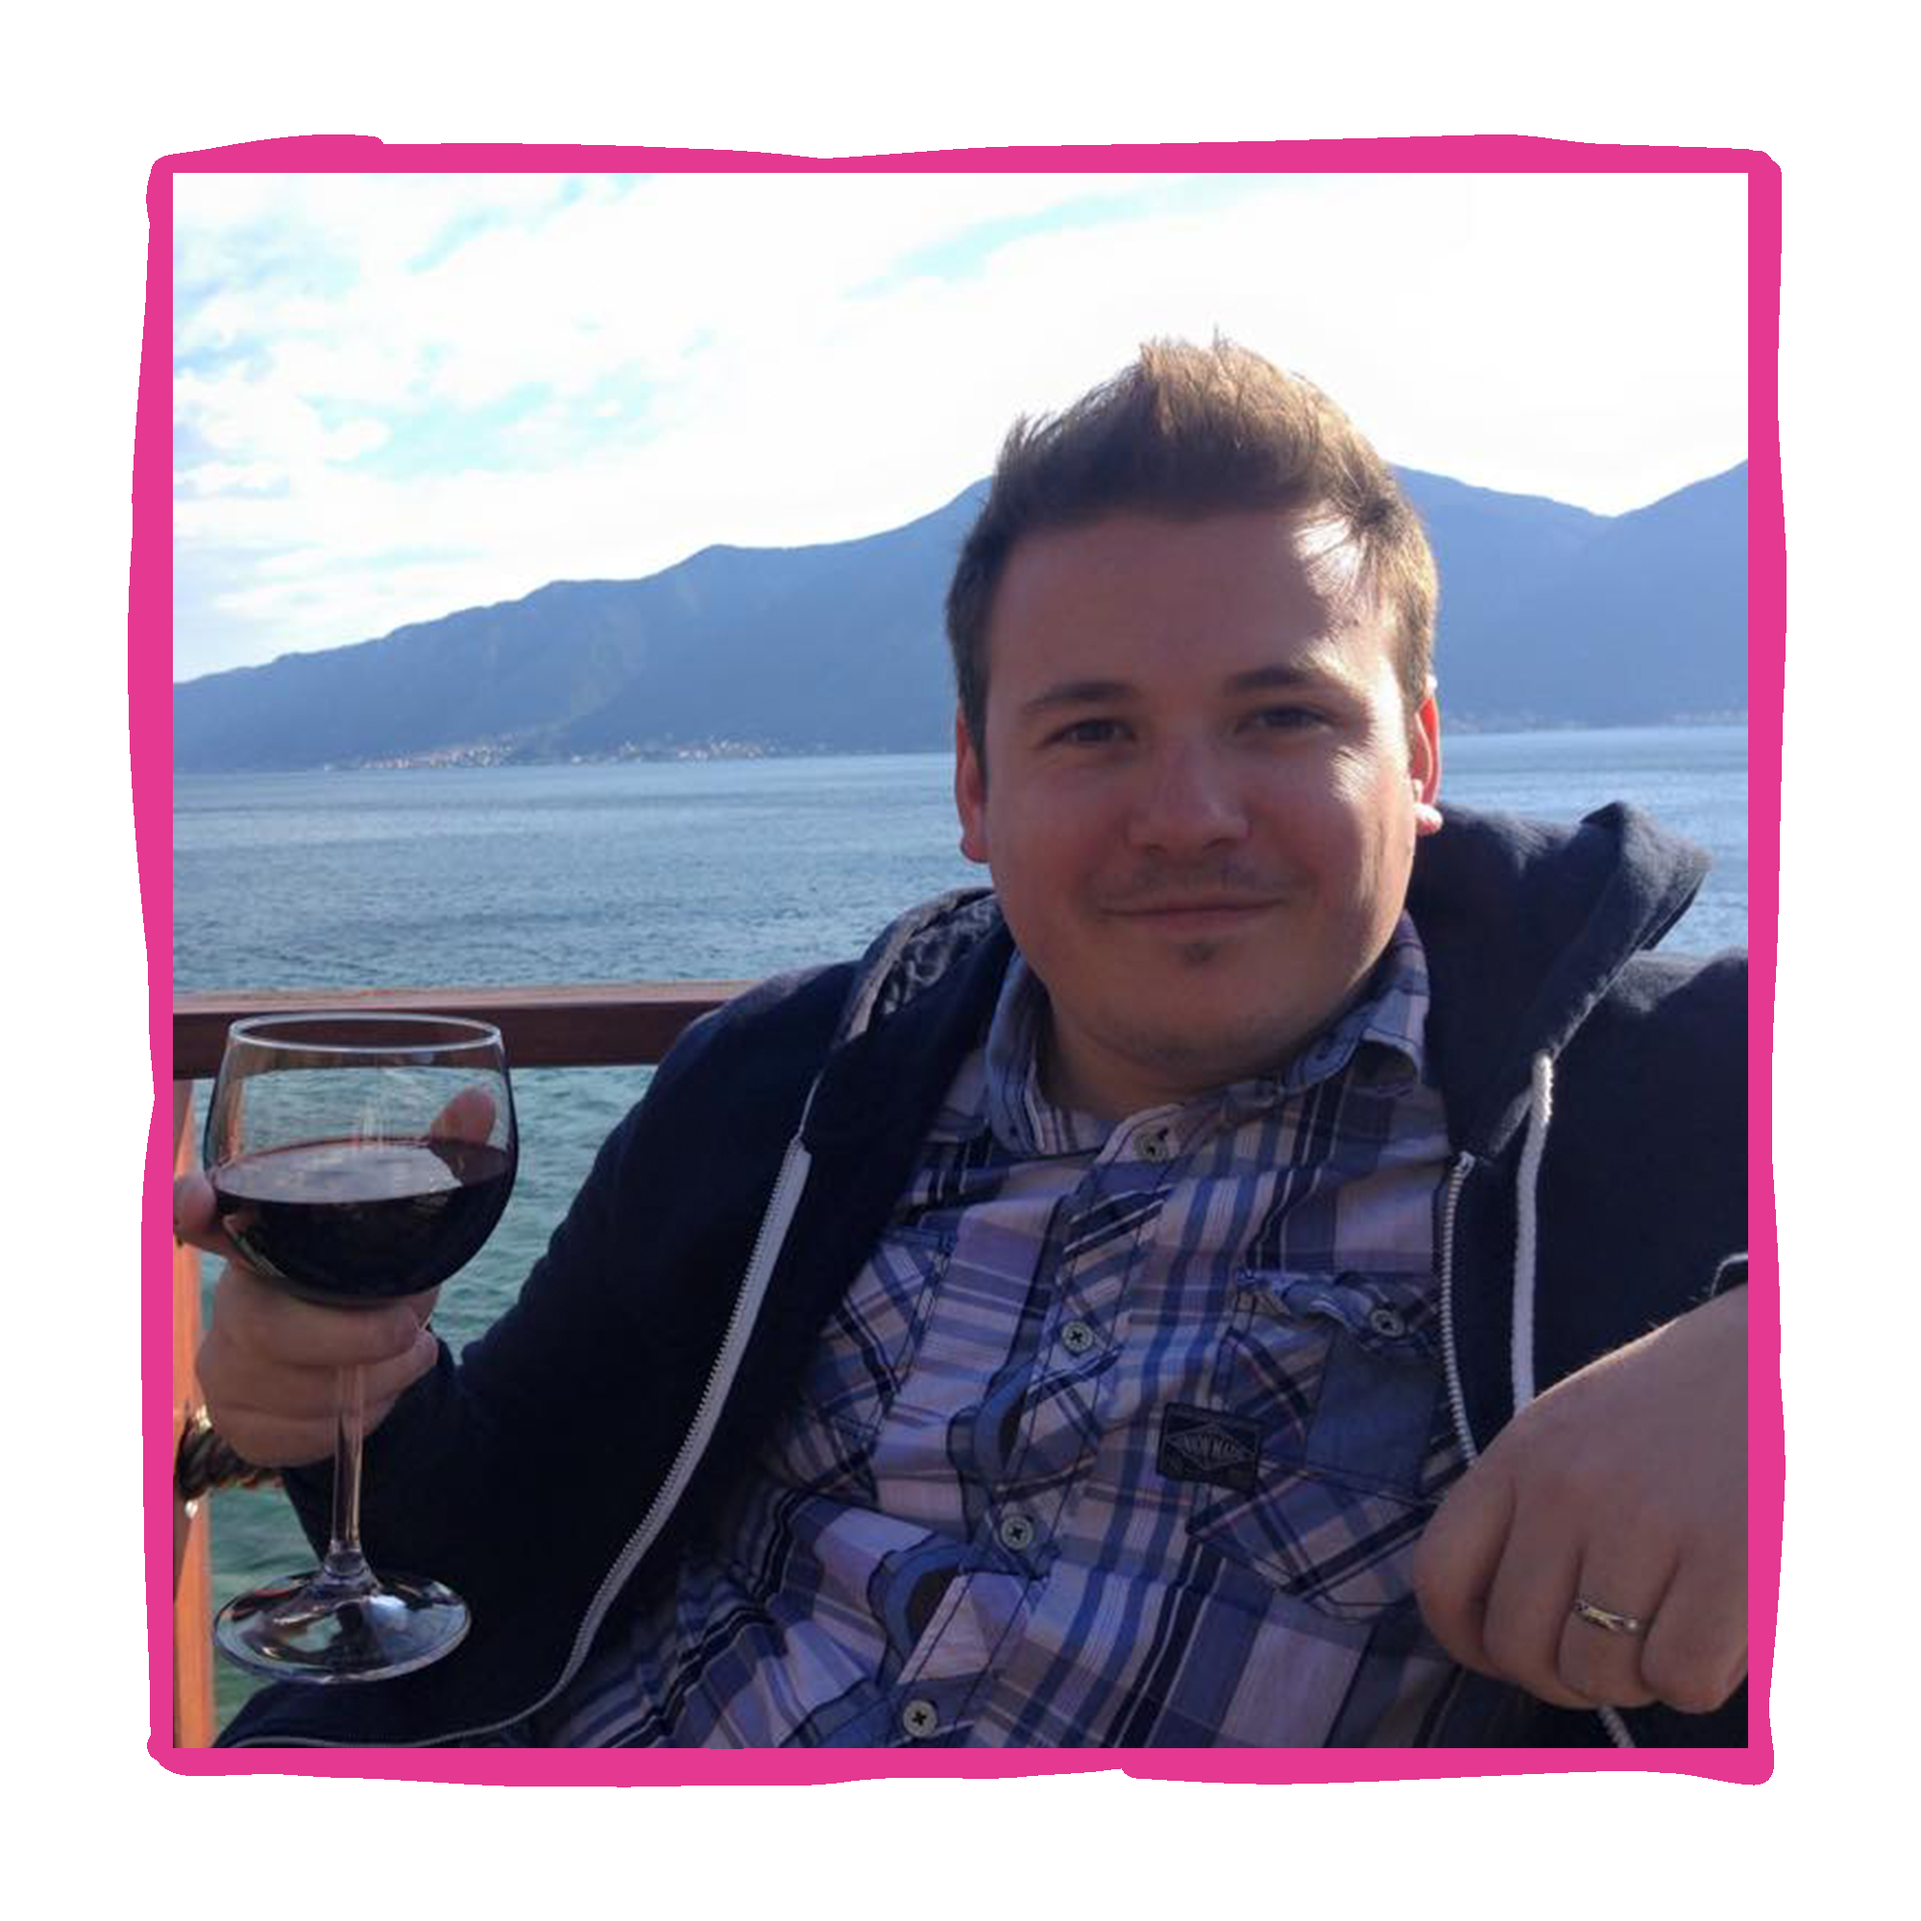
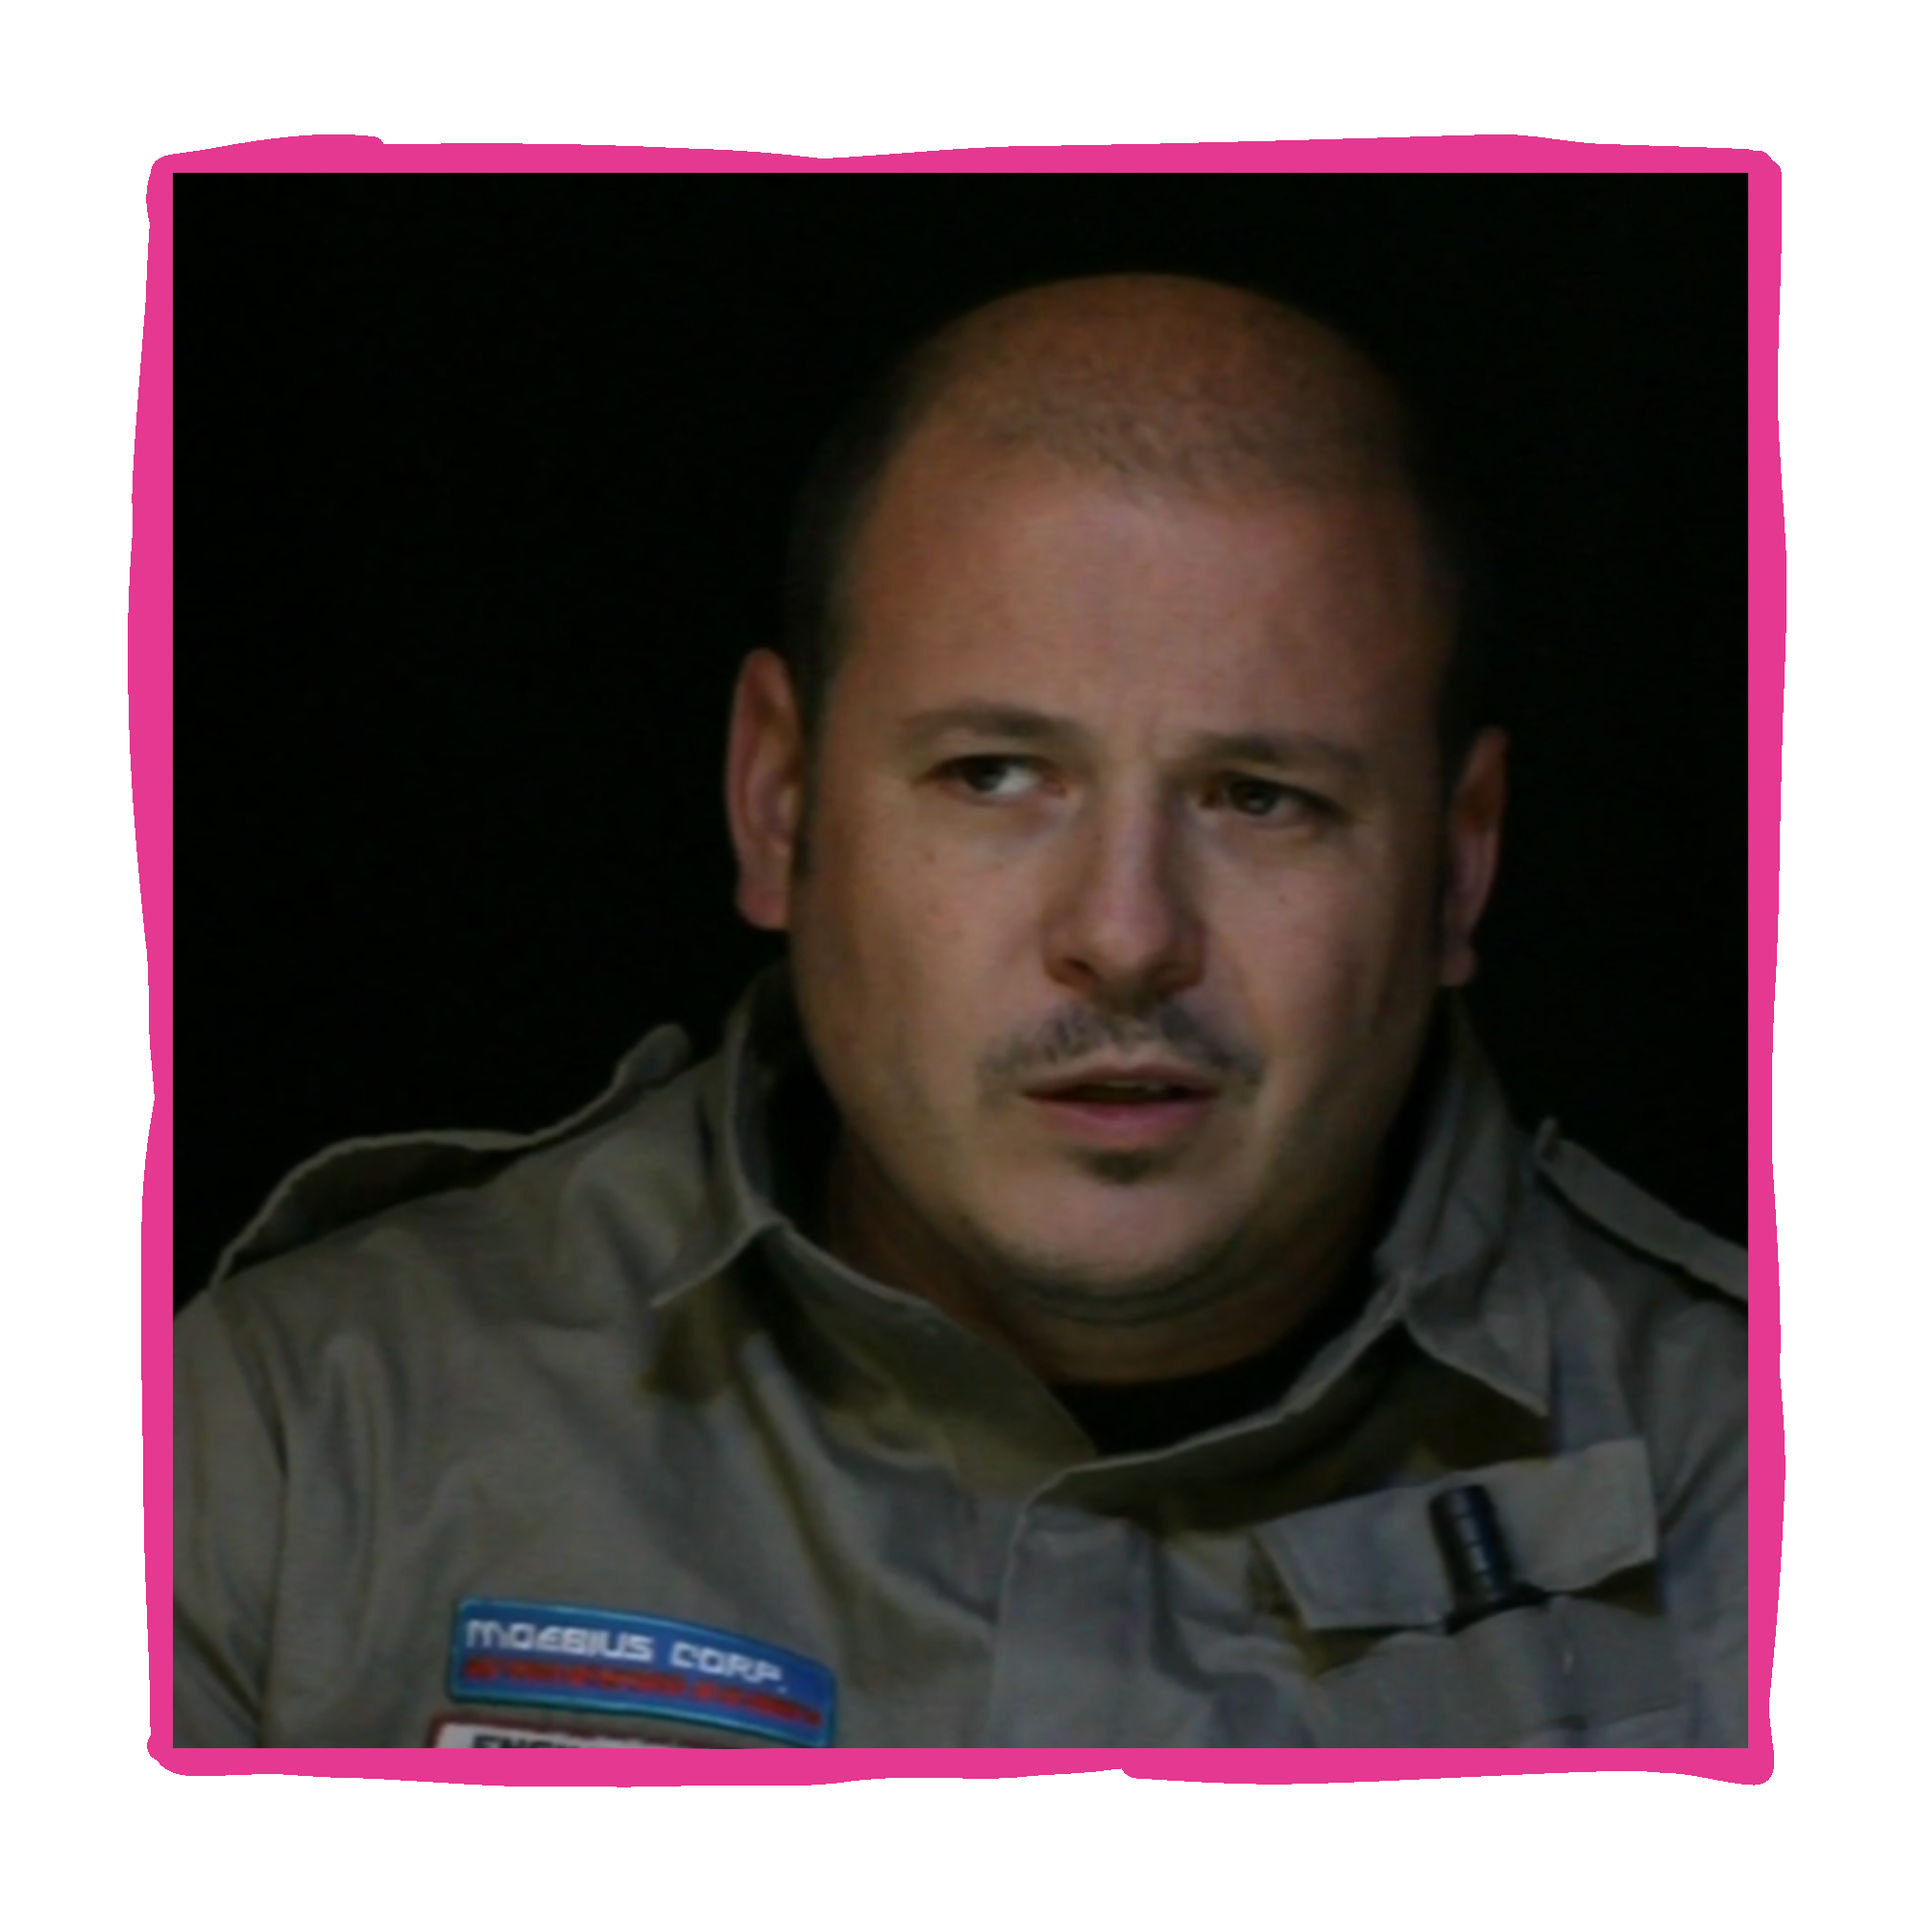
updated bio images

diff --git a/vaesen.html b/vaesen.html
@@ -61,7 +61,7 @@
         <p> A module from Melpomene Games, you can get this Vaesen mystery from <a href="https://www.drivethrurpg.com/en/product/402994/the-double-vaesen-mystery" target="_blank" rel="noopener noreferrer">DriveThruRPG</a></p>
         <div class="cast" aria-label="Doubles players">
           <div class="cast-member"><img class="cast-photo" src="images/bio_pink_sa.png" alt="Sam"><span>Sam</span></div>
-          <div class="cast-member"><div class="cast-avatar cast-placeholder" role="img" aria-label="Placeholder portrait for Katie">K</div><span>Katie</span></div>
+          <div class="cast-member"><img class="cast-photo" src="images/bio_pink_ka.png" alt="Katie"><span>Katie</span></div>
           <div class="cast-member"><div class="cast-avatar cast-placeholder" role="img" aria-label="Placeholder portrait for Rob">R</div><span>Rob</span></div>
           <div class="cast-member"><img class="cast-photo" src="images/bio_pink_se.png" alt="Simon"><span>Simon</span><span class="cast-role">Warden</span></div>
         </div>
@@ -78,7 +78,7 @@
         <p> You can pick up a copy of Seasons of Mystery from <a href="https://freeleaguepublishing.com/shop/vaesen-2/seasons-of-mystery/" target="_blank" rel="noopener noreferrer">Free League Publishing</a>.</p>
         <div class="cast" aria-label="Dance With Death players">
           <div class="cast-member"><img class="cast-photo" src="images/bio_pink_sa.png" alt="Sam"><span>Sam</span></div>
-          <div class="cast-member"><div class="cast-avatar cast-placeholder" role="img" aria-label="Placeholder portrait for Katie">K</div><span>Katie</span></div>
+          <div class="cast-member"><img class="cast-photo" src="images/bio_pink_ka.png" alt="Katie"><span>Katie</span></div>
           <div class="cast-member"><div class="cast-avatar cast-placeholder" role="img" aria-label="Placeholder portrait for Matt">M</div><span>Matt</span></div>
           <div class="cast-member"><img class="cast-photo" src="images/bio_pink_se.png" alt="Simon"><span>Simon</span><span class="cast-role">Warden</span></div>
         </div>
@@ -96,7 +96,7 @@
         <p> You can pick up a copy of Seasons of Mystery from <a href="https://freeleaguepublishing.com/shop/vaesen-2/seasons-of-mystery/" target="_blank" rel="noopener noreferrer">Free League Publishing</a>.</p>
         <div class="cast" aria-label="Fireheart players">
           <div class="cast-member"><img class="cast-photo" src="images/bio_pink_sa.png" alt="Sam"><span>Sam</span></div>
-          <div class="cast-member"><div class="cast-avatar cast-placeholder" role="img" aria-label="Placeholder portrait for Katie">K</div><span>Katie</span></div>
+          <div class="cast-member"><img class="cast-photo" src="images/bio_pink_ka.png" alt="Katie"><span>Katie</span></div>
           <div class="cast-member"><div class="cast-avatar cast-placeholder" role="img" aria-label="Placeholder portrait for Matt">R</div><span>Rosey</span></div>
           <div class="cast-member"><img class="cast-photo" src="images/bio_pink_se.png" alt="Simon"><span>Simon</span><span class="cast-role">Warden</span></div>
         </div>

diff --git a/mothership.html b/mothership.html
@@ -46,7 +46,7 @@
         </div>
         <div class="cast" aria-label="VR Dead players">
           <div class="cast-member"><img class="cast-photo" src="images/bio_pink_sa.png" alt="Sam"><span>Sam</span></div>
-          <div class="cast-member"><div class="cast-avatar cast-placeholder" role="img" aria-label="Placeholder portrait for Katie">K</div><span>Lewis</span></div>
+          <div class="cast-member"><img class="cast-photo" src="images/bio_pink_ka.png" alt="Katie"><span>Katie</span></div>
           <div class="cast-member"><div class="cast-avatar cast-placeholder" role="img" aria-label="Placeholder portrait for Matt">M</div><span>Joanna</span></div>
           <div class="cast-member"><img class="cast-photo" src="images/bio_pink_jk.png" alt="Matt"><span>Josh</span></div>
           <div class="cast-member"><img class="cast-photo" src="images/bio_pink_se.png" alt="Simon"><span>Simon</span><span class="cast-role">Warden</span></div>
@@ -63,9 +63,9 @@
         <p class="series-description">Hyperion is a three-part trilogy: <em>Arrival</em>, <em>Revival</em>, and <em>Awakening</em>. Written by theRolePlayGoblin team. Each story follows a different crew, at a different point in time, as they encounter the Moebius Corporation science vessel Hyperion. Every crew faces its own space-horror nightmare aboard the ship, but only by experiencing all three stories will the fearful truth be revealed - a revelation that could determine the survival of humanity.</p>
         <div class="cast" aria-label="Hyperion players">
           <div class="cast-member"><img class="cast-photo" src="images/bio_pink_sa.png" alt="Sam"><span>Sam</span><span class="cast-role">Warden</span></div>
-          <div class="cast-member"><div class="cast-avatar cast-placeholder" role="img" aria-label="Placeholder portrait for Katie">K</div><span>Lewis</span></div>
+          <div class="cast-member"><div class="cast-avatar cast-placeholder" role="img" aria-label="Placeholder portrait for Lewis">L</div><span>Lewis</span></div>
           <div class="cast-member"><div class="cast-avatar cast-placeholder" role="img" aria-label="Placeholder portrait for Rosey">R</div><span>Rosey</span></div>
-          <div class="cast-member"><div class="cast-avatar cast-placeholder" role="img" aria-label="Placeholder portrait for Matt">M</div><span>Joanna</span></div>
+          <div class="cast-member"><div class="cast-avatar cast-placeholder" role="img" aria-label="Placeholder portrait for Joanna">M</div><span>Joanna</span></div>
           <div class="cast-member"><img class="cast-photo" src="images/bio_pink_jk.png" alt="Matt"><span>Josh</span></div>
           <div class="cast-member"><img class="cast-photo" src="images/bio_pink_se.png" alt="Simon"><span>Simon</span><span class="cast-role">Warden</span></div>
         </div>
